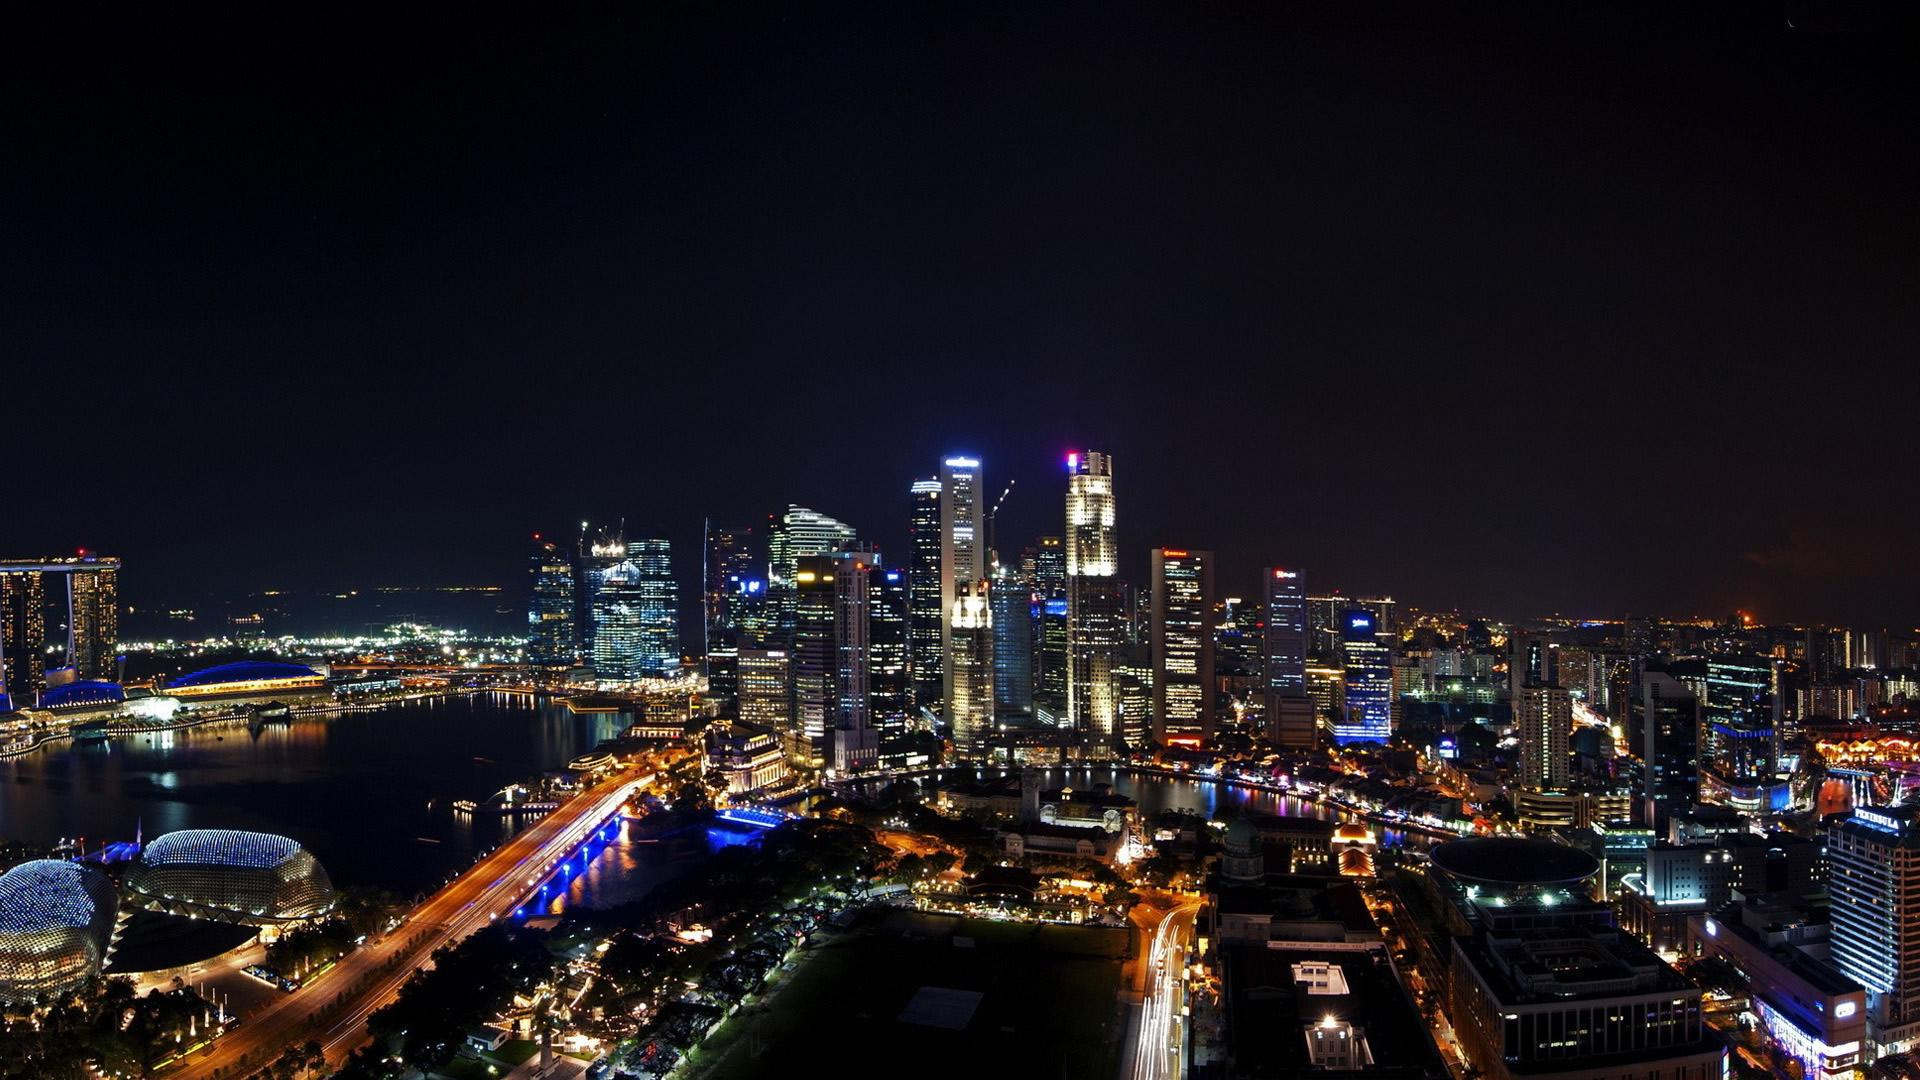
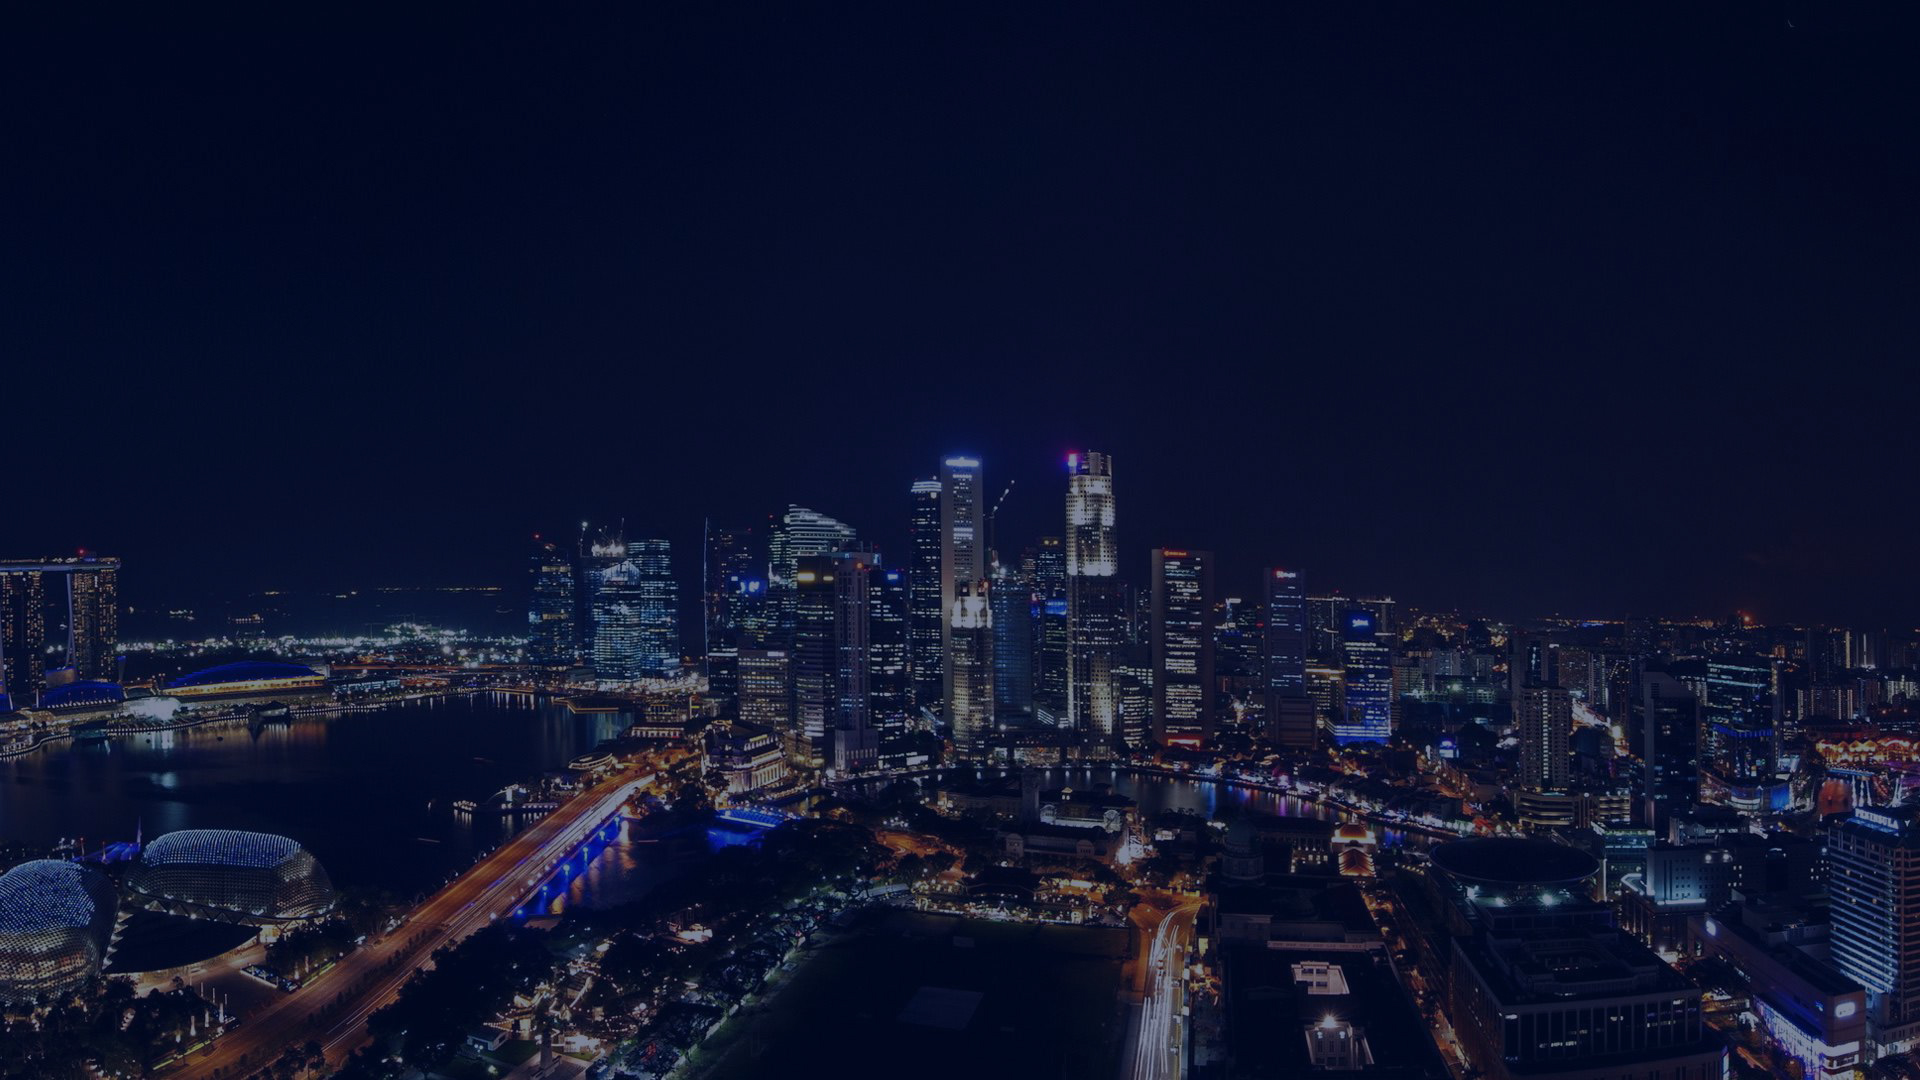
Mengganti header and footer image

diff --git a/resources/views/welcome.blade.php b/resources/views/welcome.blade.php
@@ -65,7 +65,7 @@
 		</div>
 		<!-- /.container-fluid -->
 	</nav>
-	<header id="home">
+	<header id="home" style="background:url('/img/lintas-header.jpg');">
 		<div class="container">
 			<div class="table">
 				<div class="header-text">
@@ -405,7 +405,7 @@
 			</div>
 		</div>
 	</div> -->
-	<footer>
+	<footer style="background:url('/img/lintas-footer.jpg');">
 		<div class="container">
 			<!--<div class="row">
 				<div class="col-sm-6 text-center-mobile">
@@ -429,7 +429,7 @@
 			</div>-->
 			<div class="row bottom-footer text-center-mobile">
 				<div class="col-sm-8">
-					<p>&copy; 2019 All Rights Reserved. PT Aplikasinusa Lintasarta</a></p>
+					<p style="color:white">&copy; 2019 All Rights Reserved. PT Aplikasinusa Lintasarta</a></p>
 				</div>
 				<!--<div class="col-sm-4 text-right text-center-mobile">
 					<ul class="social-footer">
